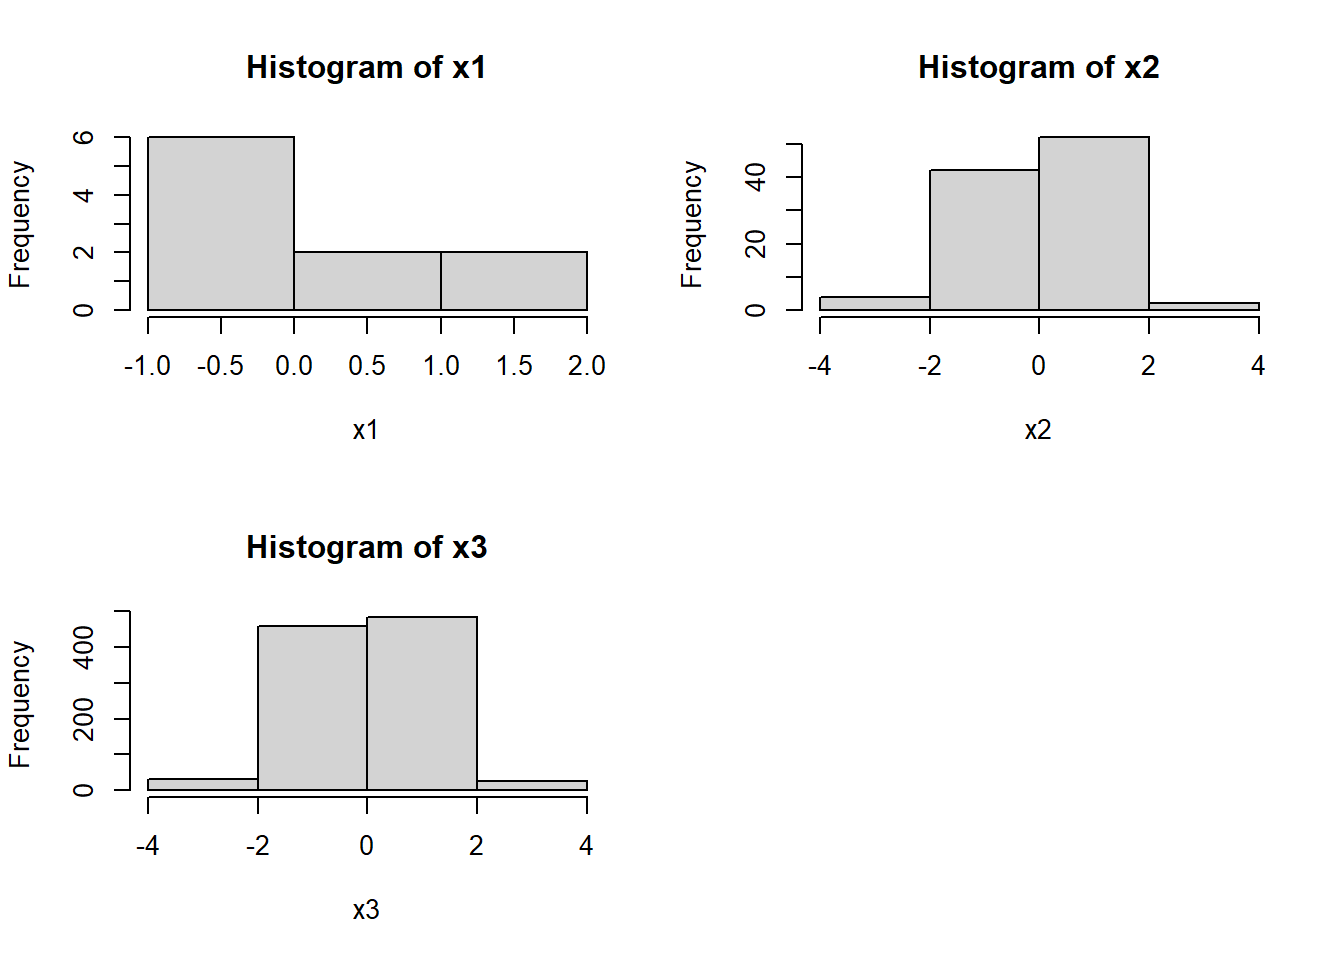
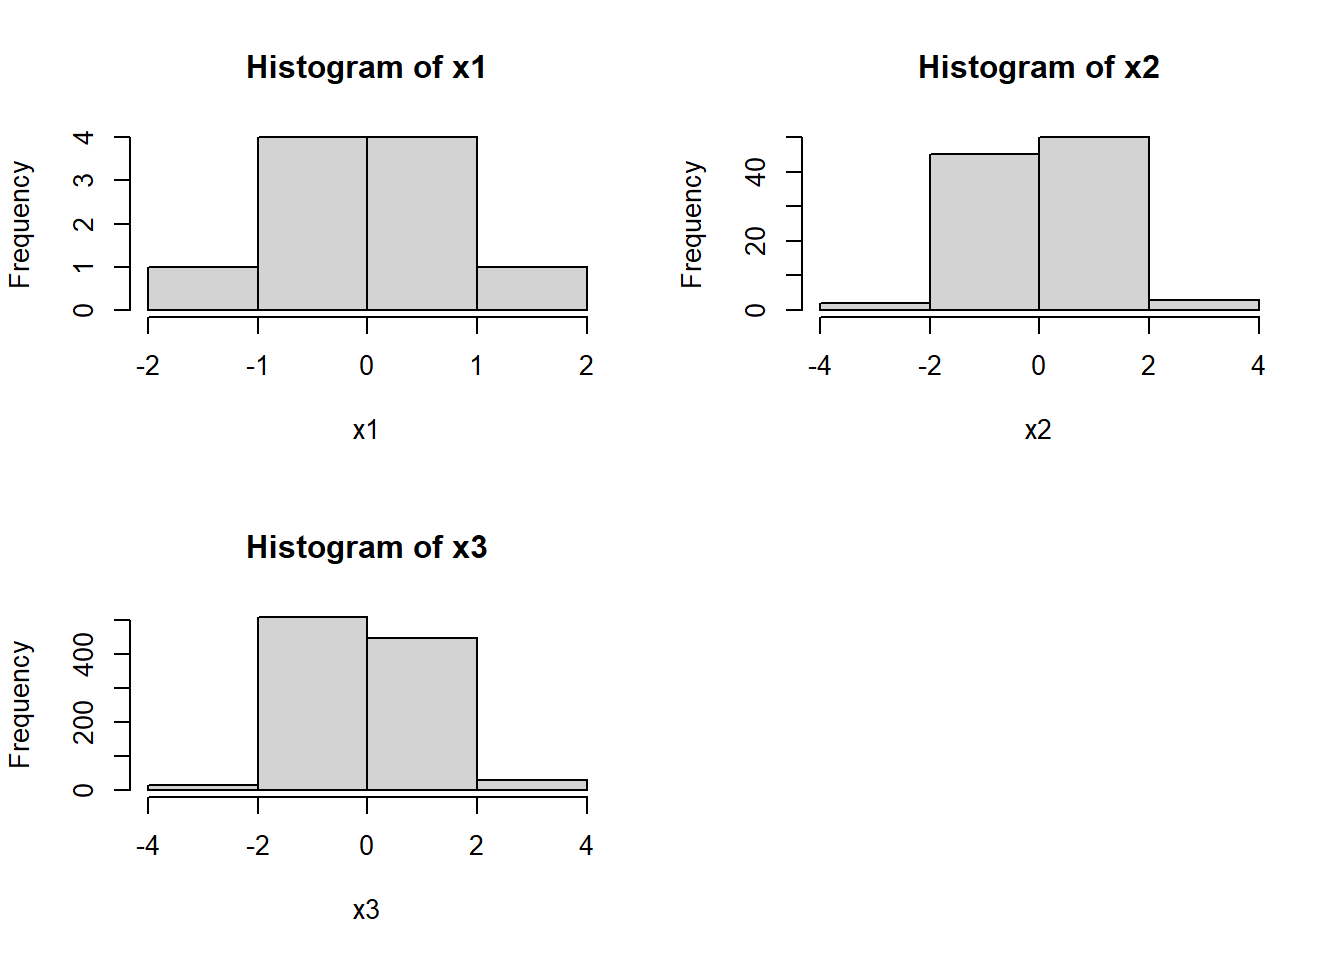
ex 3

diff --git a/_site/Exercise03.html b/_site/Exercise03.html
@@ -435,7 +435,13 @@ x_{0}=0 \quad x_{1}=1\\
 x_{i}=x_{i-1}+x_{i-2} \quad\forall i&gt;1
 \]</span> Using a for loop, print the first 10 numbers of the Fibonacci sequence.
 <div class="fold s o">
-
+<pre class="r"><code>fib&lt;-c(0,1)
+# in R the vectors are index starting from 1
+for(j in 3:10){
+  fib[j]&lt;-fib[j-1]+fib[j-2]
+}
+print(fib)</code></pre>
+<pre><code>##  [1]  0  1  1  2  3  5  8 13 21 34</code></pre>
 </div>
 </div>
 <div id="exercises" class="section level1">
@@ -444,23 +450,79 @@ x_{i}=x_{i-1}+x_{i-2} \quad\forall i&gt;1
 <h2>Exercise 3.1</h2>
 <p>Draw 10 random samples of size <span class="math inline">\(N = 5\)</span> from the standard normal distribution (<span class="math inline">\(\mu\)</span> = 0, <span class="math inline">\(\sigma\)</span> = 1),<strong><tt>rnorm()</tt></strong>. Calculate the mean of each sample. Calculate the mean of all 10 means.</p>
 <div class="fold s o">
+<pre class="r"><code># Sample creation
+M&lt;-rnorm(n = 5, mean=0, sd=1) #variable to store the samples
+for(j in 1:9){
+  M&lt;-cbind(M,rnorm(n = 5, mean=0, sd=1))
+}
+# Otherwise you can create an empty matrix 5x10 
+# and then use a for loop to fill  it
+# M&lt;-matrix(NA, ncol = 10, nrow = 5)
+# for(j in 1:10){
+#   M[,j]&lt;-rnorm(n = 5, mean=0, sd=1)
+# }
 
+# Calculate the mean of each sample
+
+M_col_mean&lt;-c()
+for(j in 1:10){
+  M_col_mean[j]&lt;-mean(M[,j])
+}
+# Otherwise using the apply function
+# we apply the function mean over each column of the matrix M
+#M_col_mean&lt;-apply(M, 2, mean)
+
+# Calculate the mean of the means
+M_mean&lt;-mean(M_col_mean)
+M_col_mean
+M_mean</code></pre>
+<pre><code>##  [1]  0.112764523  0.346966996 -0.119982428  0.076924150  0.922383612
+##  [6]  0.256484236 -0.372220641 -0.131462225 -0.008372184 -0.148695923
+## [1] 0.09347901</code></pre>
 </div>
 <p>Plot the density function of the standard normal distribution. Using the function <strong><tt>points()</tt></strong> draw the sample means and the mean of means into the plot.</p>
 <div class="fold s o">
-
+<pre class="r"><code>x.axis = seq(-3, 3, length.out=100)
+y.axis = dnorm(x.axis, mean=0, sd=1)
+plot(x.axis, y.axis, type=&quot;l&quot;)
+for(i in 1:10) {
+  points(M_col_mean[i], y = 0, pch=4)
+}
+points(M_mean, y = 0, pch=4, col=2, lwd=3)</code></pre>
+<p><img src="Exercise03_files/figure-html/unnamed-chunk-5-1.png" width="80%" style="display: block; margin: auto;" /></p>
 </div>
 Repeat the above computer experiment with <span class="math inline">\(N = 25\)</span>.
 <div class="fold s o">
+<pre class="r"><code>M&lt;-rnorm(n = 25, mean=0, sd=1) #variable to store the samples
+for(j in 1:9){
+  M&lt;-cbind(M,rnorm(n = 25, mean=0, sd=1))
+}
 
+# Calculate the mean of each sample
+M_col_mean&lt;-apply(M, 2, mean)
+
+# Calculate the mean of the means
+M_mean&lt;-mean(M_col_mean)
+
+# plot
+x.axis = seq(-3, 3, length.out=100)
+y.axis = dnorm(x.axis, mean=0, sd=1)
+plot(x.axis, y.axis, type=&quot;l&quot;)
+for(i in 1:10) {
+  points(M_col_mean[i], y = 0, pch=4)
+}
+points(M_mean, y = 0, pch=4, col=2, lwd=3)</code></pre>
+<p><img src="Exercise03_files/figure-html/unnamed-chunk-6-1.png" width="80%" style="display: block; margin: auto;" /></p>
 </div>
 </div>
 <div id="exercise-3.2" class="section level2">
 <h2>Exercise 3.2</h2>
 <p>A producer gives the information that the content of a pharmaceutical substance in the tablets of some preparation A is normally distributed with an expectation of 500 mg and with a variance of 10mg. To check this claim, the contents of 25 randomly chosen tablets are determined.</p>
-Load the <strong><tt>study3.csv</tt></strong> data frame and plot the histogram of the data, remember to select a reasonable choice of the parameter <strong><tt>breaks</tt></strong>.
+Load the <a href="./data/study3.csv" download><tt>study3.csv()</tt></a> data frame and plot the histogram of the data, remember to select a reasonable choice of the parameter <strong><tt>breaks</tt></strong>.
 <div class="fold s o">
-
+<pre class="r"><code>x&lt;-read.table(&quot;./data/study3.csv&quot;,sep=&quot;;&quot;,header = TRUE)[[1]] # the values are separated by ; in the csv file
+hist(x,breaks = 7)</code></pre>
+<p><img src="Exercise03_files/figure-html/unnamed-chunk-7-1.png" width="80%" style="display: block; margin: auto;" /></p>
 </div>
 <p>Determine a 95%-confidence interval for the expectation from the data:</p>
 <details>
@@ -474,7 +536,16 @@ Consider an i.i.d. sample of length <span class="math inline">\(n\)</span> from 
 <p>
 </p>
 <div class="fold s o">
-
+<pre class="r"><code>N=25
+alpha = 0.05
+MEAN = mean(x)
+s = sd(x)
+SEM = s / sqrt(N) # standard error of the mean
+Z = qnorm(1 - alpha / 2, 0, 1)# calculate the critical values
+lower_bound&lt;-MEAN - Z * SEM # Lower Bound
+upper_bound&lt;-MEAN + Z * SEM # Upper Bound
+print(paste0(&#39;the confidence interval is [&#39;,round(lower_bound,2),&#39;,&#39;,round(upper_bound,2),&#39;]&#39;))</code></pre>
+<pre><code>## [1] &quot;the confidence interval is [501.74,510.97]&quot;</code></pre>
 </div>
 <p>Plot the confidence interval against the histogram.</p>
 <p>Given the confidence intervals, could you trust the producer? Change</p>
@@ -487,7 +558,34 @@ Consider an i.i.d. sample of length <span class="math inline">\(n\)</span> from 
 <p>Discuss changes and results.</p>
 <p>Draw 100 random samples of size <span class="math inline">\(n = 25\)</span> from the normal distribution (<span class="math inline">\(\mu\)</span> = 500 mg, <span class="math inline">\(\sigma\)</span> = 10 mg). Calculate for each one the 95%-confidence interval, how many of them fail to contain the true value?</p>
 <div class="fold s o">
+<pre class="r"><code># generate the data
+M&lt;-rnorm(n = 25, mean=500, sd=10) #variable to store the samples
+for(j in 1:99){
+  M&lt;-cbind(M,rnorm(n = 25, mean=500, sd=10))
+}
 
+M_conf&lt;-matrix(nrow=2,ncol=100)
+
+for(j in 1:100){
+  MEAN&lt;-mean(M[,j])
+  SEM&lt;-sd(M[,j])/sqrt(25)
+  z&lt;-qnorm(1 - 0.05 / 2, 0, 1)
+  M_conf[1,j]&lt;-MEAN - Z * SEM # Lower Bound
+  M_conf[2,j]&lt;-MEAN + Z * SEM # Upper Bound
+}
+
+# percentage of interval that contains the true value for the mean
+sum((M_conf[1,]&lt;=500 &amp; 500&lt;=M_conf[2,]))/100</code></pre>
+<pre><code>## [1] 0.94</code></pre>
+<pre class="r"><code>#EXTRA
+# usage of if else statement to give the color to the segments
+plot.new()
+plot(1, type = &quot;n&quot;, xlab = &quot;&quot;, ylab = &quot;&quot;,xlim = c(0, 100), ylim = c(min(M_conf[1,j])-10, max(M_conf[2,j])+10))
+for(j in 1:100){
+  segments(x0=j,y0=M_conf[1,j],x1=j,y1=M_conf[2,j],col=ifelse((M_conf[1,j]&lt;=500 &amp; 500&lt;=M_conf[2,j]),&#39;black&#39;,&#39;red&#39;))
+}
+abline(h=500,col=&#39;red&#39;)</code></pre>
+<p><img src="Exercise03_files/figure-html/unnamed-chunk-9-1.png" width="80%" style="display: block; margin: auto;" /></p>
 </div>
 </div>
 </div>
